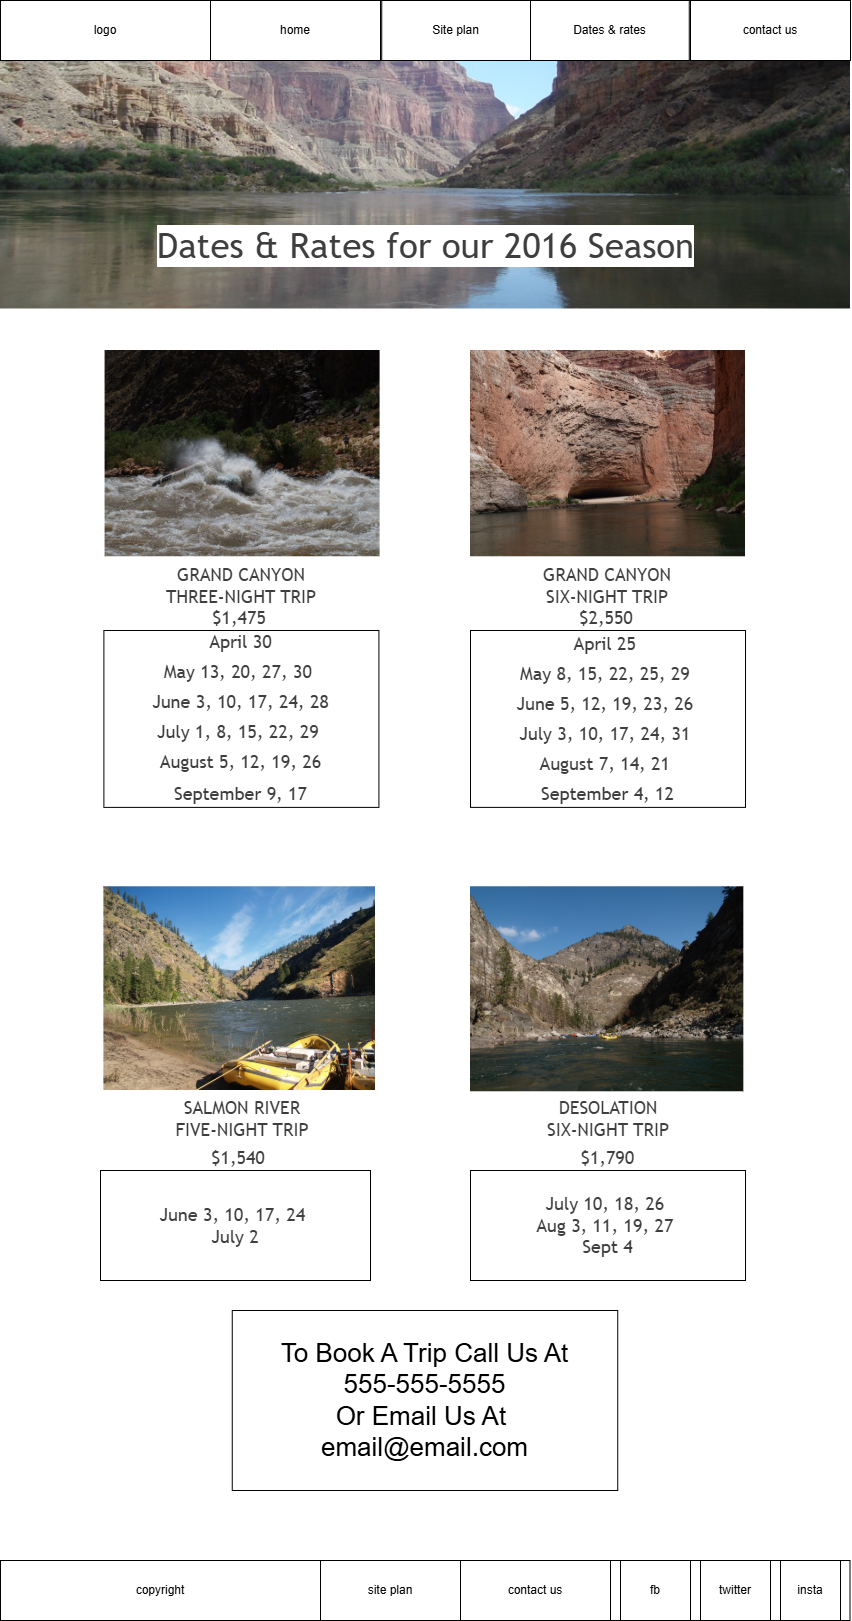
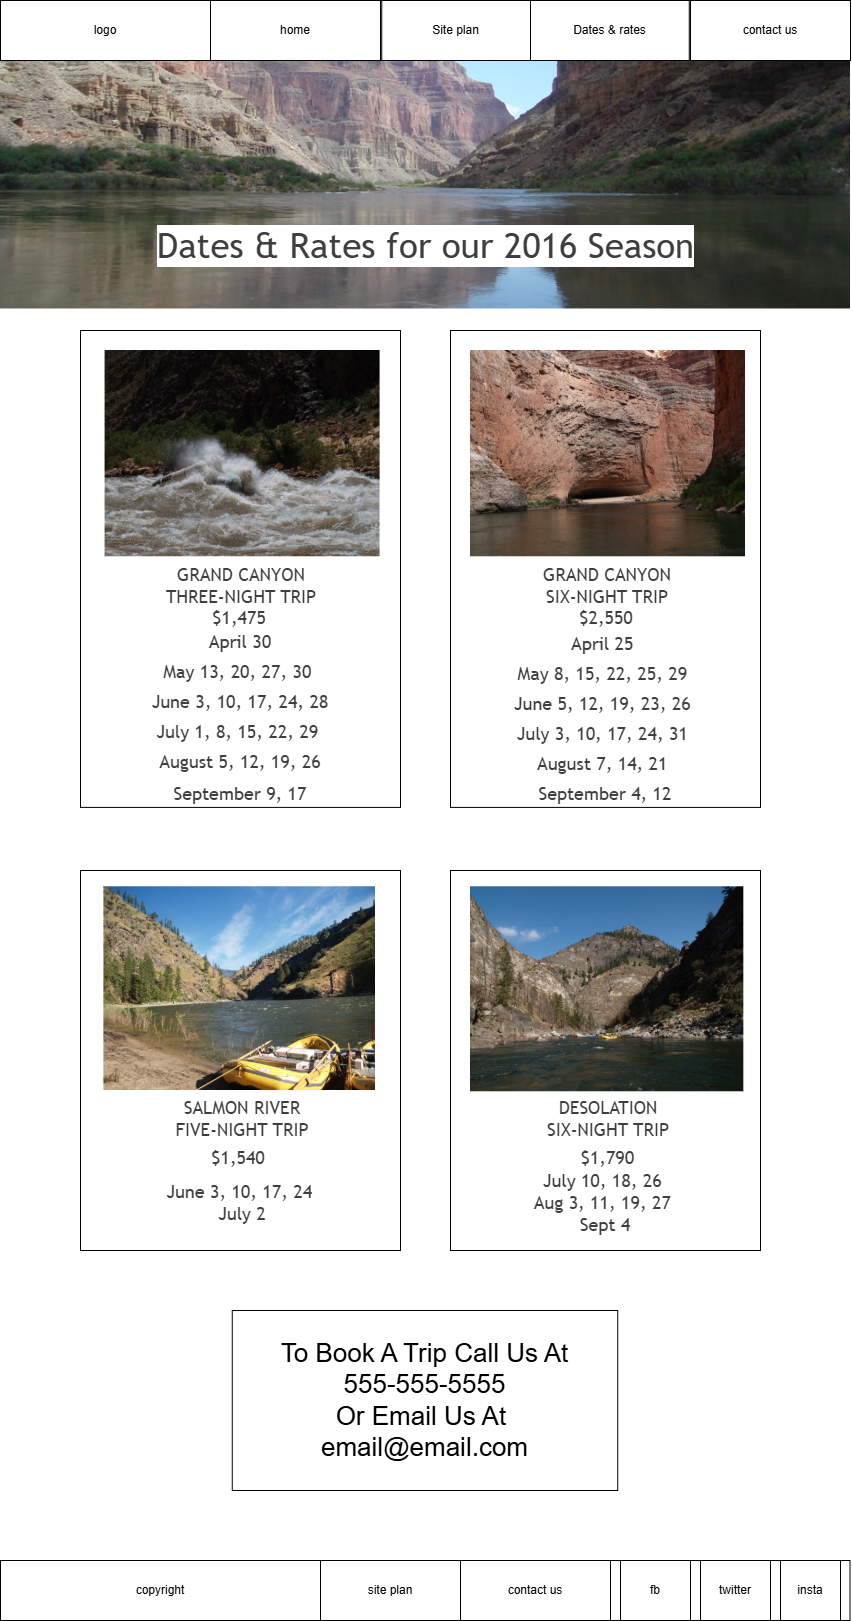
put back colors

diff --git a/wwr/styles/style.css b/wwr/styles/style.css
@@ -251,13 +251,6 @@ footer .social img {
     width: 350px;
 }
 
-.Booking h1 {
-    color: #006ba6;
-}
-.rates-grid h2,p {
-    color:#ead2ac
-}
-
 .rates-grid {
     display: grid;
     grid-template-columns: repeat(7, 1fr);
